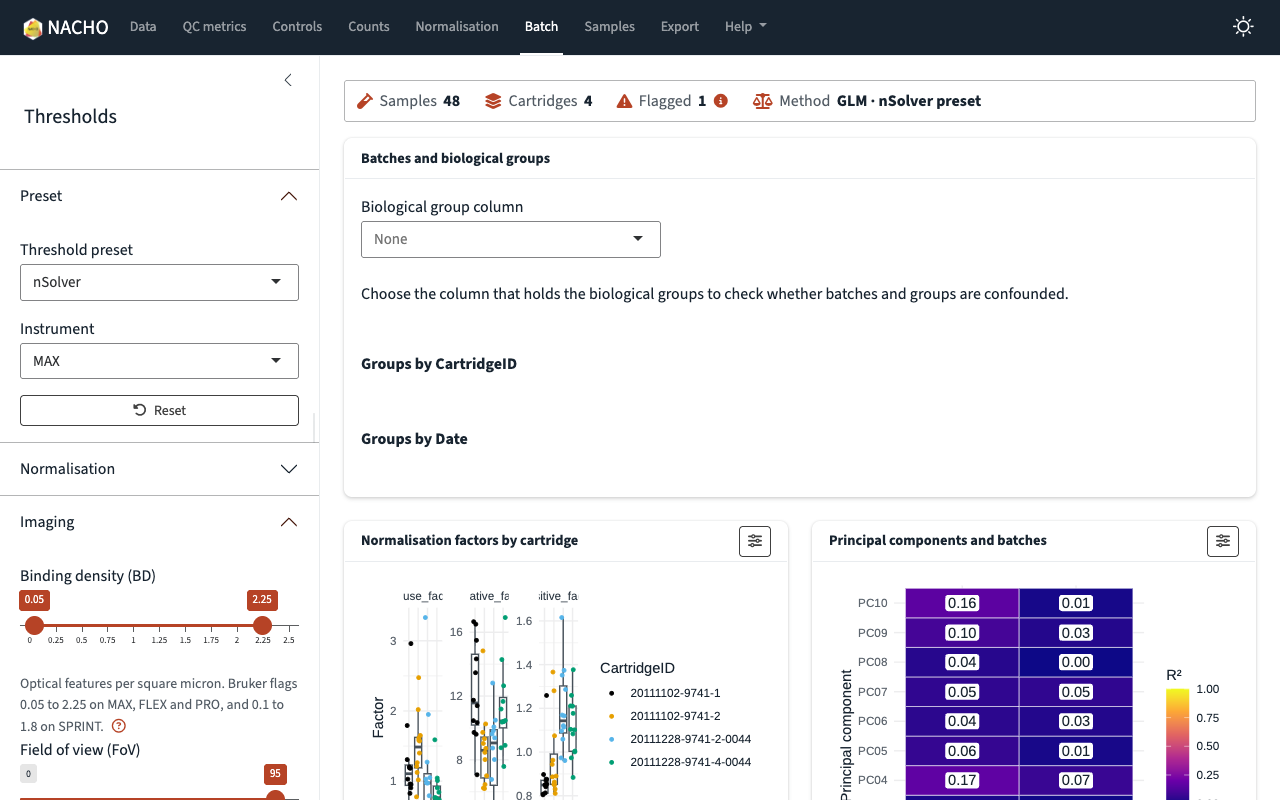
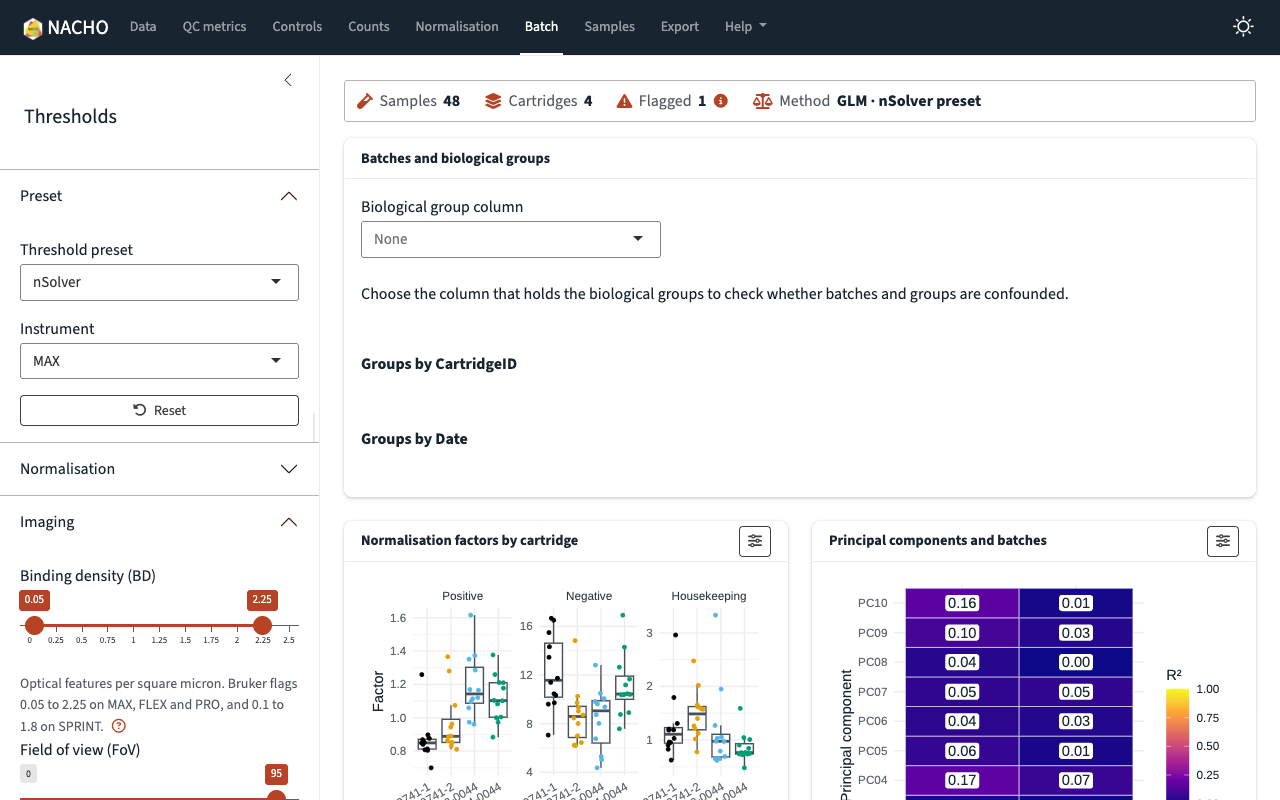
fix: keep the batch factor panel titles readable

Changed region(s): [[0.2812, 0.7812, 0.5938, 1.0], [0.3125, 0.7188, 0.4688, 0.75], [0.5312, 0.7188, 0.5938, 0.75]]

diff --git a/NEWS.md b/NEWS.md
@@ -172,6 +172,7 @@ NACHO 2 users can stay on NACHO 2.* or convert saved objects with `upgrade_nacho
     `summary()`, `as.data.frame()` and `[` refuse it with the same classed error as `autoplot()`.
 - In `R/autoplot.R`,
   - fix: `autoplot()` now draws samples whose outlier flag is missing as ordinary points, where NACHO 2 left them out of the plot.
+  - fix: The normalisation factors by cartridge plot names its panels Positive, Negative and Housekeeping, and puts its legend below, so the panel titles are no longer cut in the app.
 - In `R/render.R`,
   - fix: `render()` no longer deletes a folder named `tmp_nacho` in `output_dir`.
 - In `inst/app/`,
